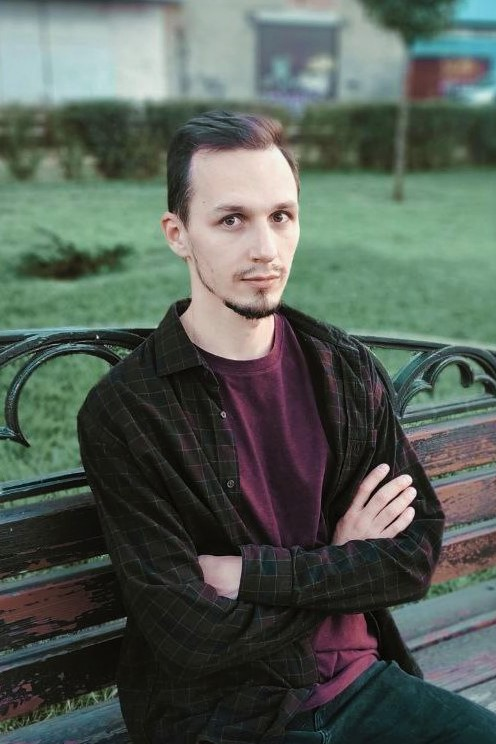
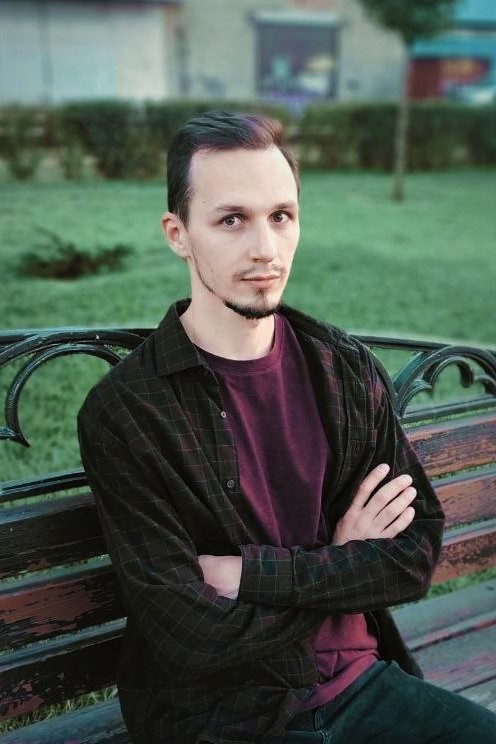
add responsive photo

diff --git a/index.html b/index.html
@@ -123,7 +123,11 @@
         <div class="container">
             <div class="about__wrapper">
                 <div class="about__photo">
-                    <img src="img/main_photo.jpg" alt="myPhoto">
+                    <picture>
+                        <source media="(max-width: 768px)" srcset="img/main_photo_small.jpg">
+                        <source media="(min-width: 769px)" srcset="img/main_photo.jpg">
+                        <img src="img/main_photo.jpg" alt="myPhoto">
+                    </picture>
                 </div>
                 <div class="about__descr">
                     <h2 class="title title_fz16 about__title">Про меня</h2>
